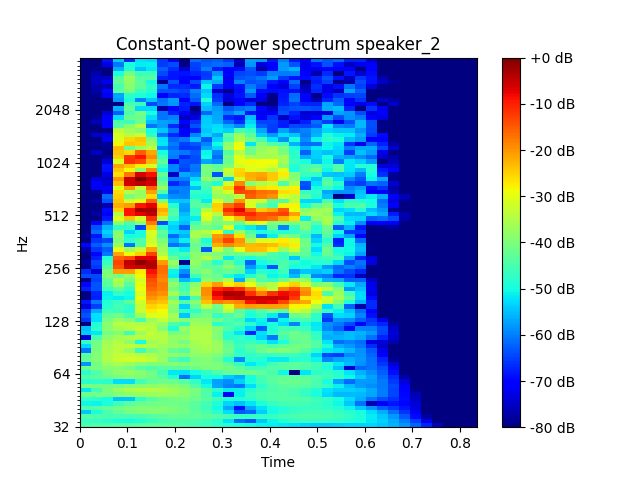
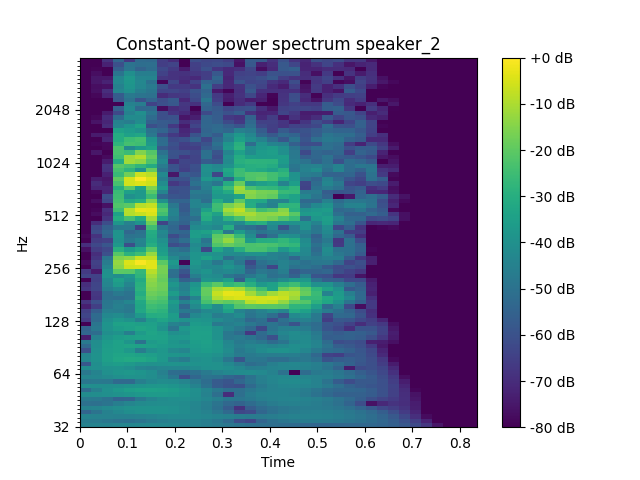
colour palette now viridis for colour blind accessibility

diff --git a/write-up/graphics_general/cqt_variance.py b/write-up/graphics_general/cqt_variance.py
@@ -49,14 +49,14 @@ def get_spectrograms(all):
     '''
     compute, plot, save
     '''
-    
+
     for arr in all:
         fig, ax = plt.subplots()
         C = np.abs(librosa.cqt(arr[0], sr=arr[1]))
-        img = librosa.display.specshow(librosa.amplitude_to_db(C, ref=np.max), sr=arr[1], x_axis='time', y_axis='cqt_hz', ax=ax, cmap='jet')
+        img = librosa.display.specshow(librosa.amplitude_to_db(C, ref=np.max), sr=arr[1], x_axis='time', y_axis='cqt_hz', ax=ax, cmap='viridis')
         ax.set_title('Constant-Q power spectrum speaker_' + str(speakers[arr[2]]) + '')
         fig.colorbar(img, ax=ax, format="%+2.0f dB")
-        plt.savefig(os.path.join(figures_folder, '_'.join([str(speakers[arr[2]]), str(item), str(num)]) + '.png'))
+        plt.savefig(os.path.join(figures_folder, '_'.join([str(item), str(num), str(speakers[arr[2]])]) + '.png'))
 
 if __name__ == '__main__':
     if len(sys.argv) >= 1:
